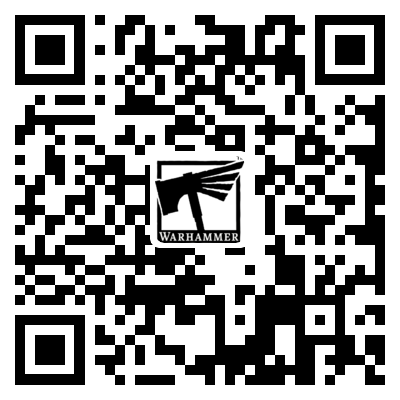
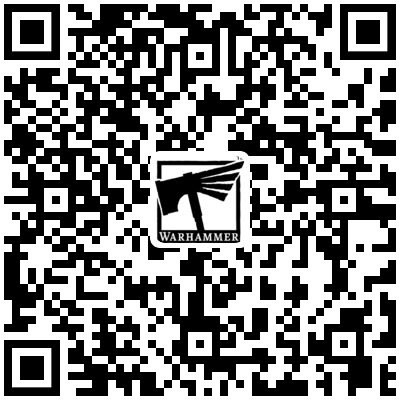
barcode url updated,optimize the q5 transition

diff --git a/src/components/aosq/AosQ6.vue b/src/components/aosq/AosQ6.vue
@@ -130,7 +130,7 @@ export default {
     font-size: 2rem;
     line-height: 2.4rem;
     // animation: fadeInDownBig 1s, shadowtext 5s infinite ease-out;
-    animation: fadeInDownBig 1s;
+    animation: fadeInDown 1s;
   }
   &-section {
     margin-top: 6rem;
@@ -138,7 +138,7 @@ export default {
       display: flex;
       flex-direction: column;
       // padding: 0 3rem;
-      animation: backInUp 1s ease-in;
+      animation: fadeInUp 1s ease-in;
 
       div {
         position: relative;

diff --git a/src/components/aosq/AosQ5.vue b/src/components/aosq/AosQ5.vue
@@ -54,7 +54,7 @@ export default {
   overflow-y: scroll;
   overflow-x: hidden;
   text-align: center;
-  background: url(../../assets/images/regular/aosq5bg.png);
-  background-size: cover;
+  // background: url(../../assets/images/regular/aosq5bg.png);
+  // background-size: cover;
 }
 </style>

diff --git a/src/components/fourtykq/FourtykQ5.vue b/src/components/fourtykq/FourtykQ5.vue
@@ -54,7 +54,7 @@ export default {
   overflow-y: scroll;
   overflow-x: hidden;
   text-align: center;
-  background: url(../../assets/images/regular/40kq5bg.png);
-  background-size: cover;
+  // background: url(../../assets/images/regular/40kq5bg.png);
+  // background-size: cover;
 }
 </style>
